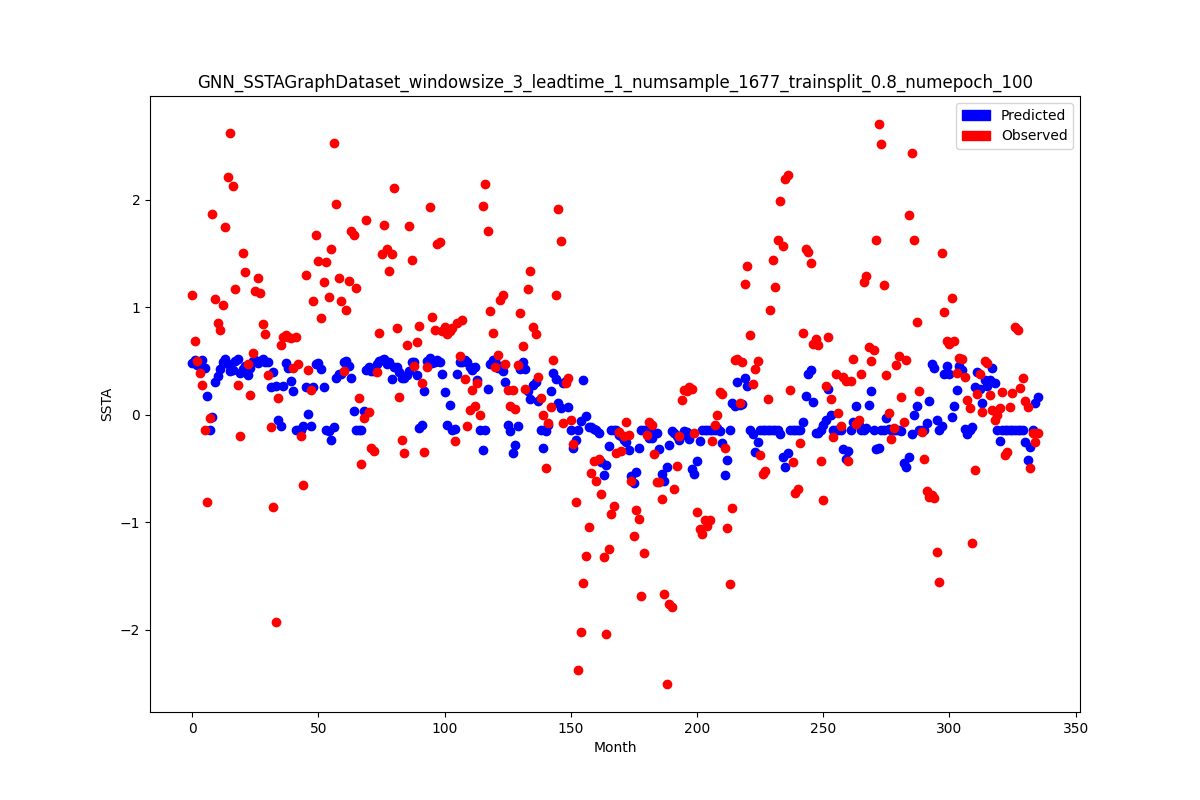
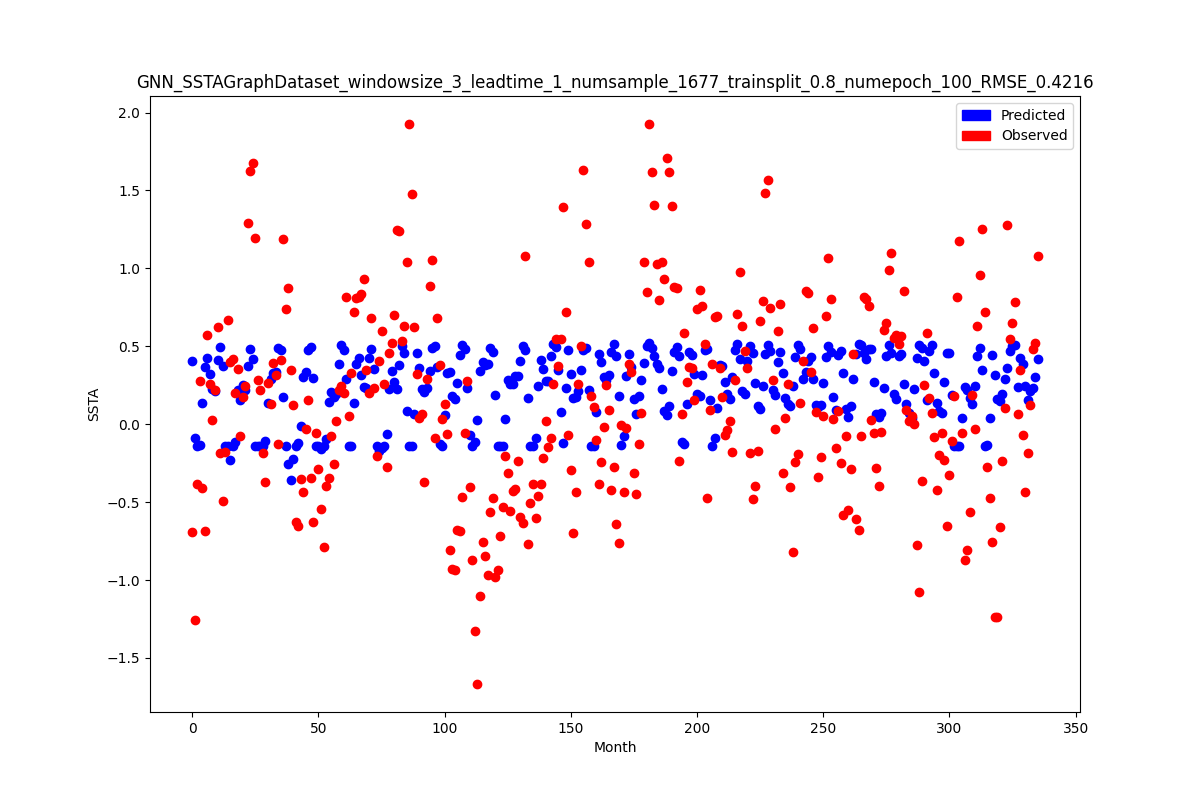
Add files via upload

diff --git a/train.py b/train.py
@@ -35,7 +35,7 @@ momentum = 0.9
 weight_decay = 0.0001
 batch_size = 64
 num_sample = 1677 # max: node_features.shape[1]-window_size-lead_time+1
-num_train_epoch = 100
+num_train_epoch = 99
 
 data_path = 'data/'
 models_path = 'out/'
@@ -135,16 +135,9 @@ print()
 num_examples = len(dataset)
 num_train = int(num_examples * train_split)
 
-# Random sampler
-#train_sampler = SubsetRandomSampler(torch.arange(num_train))
-#test_sampler = SubsetRandomSampler(torch.arange(num_train, num_examples))
-
 # Sequential sampler
-train_sampler = SequentialSampler(torch.arange(num_train))
-test_sampler = SequentialSampler(torch.arange(num_train, num_examples))
-
-train_dataloader = GraphDataLoader(dataset, sampler=train_sampler, batch_size=batch_size, drop_last=False)
-test_dataloader = GraphDataLoader(dataset, sampler=test_sampler, batch_size=1, drop_last=False)
+train_dataloader = GraphDataLoader(dataset, sampler=torch.arange(num_train), batch_size=batch_size, drop_last=False)
+test_dataloader = GraphDataLoader(dataset, sampler=torch.arange(num_train, num_examples), batch_size=1, drop_last=False)
 
 it = iter(train_dataloader)
 batch = next(it)
@@ -194,7 +187,7 @@ class GCN(nn.Module):
 # Train the GCN.
 
 model = GCN(window_size, 200, 1)
-optimizer = torch.optim.SGD(model.parameters(), lr=learning_rate, momentum=momentum, weight_decay=weight_decay)
+optimizer = torch.optim.SGD(model.parameters(), lr=learning_rate) #momentum=momentum, weight_decay=weight_decay
 loss_f = nn.MSELoss()
 
 print("Start training.")
@@ -277,7 +270,7 @@ print()
 fig, ax = plt.subplots(figsize=(12, 8))
 plt.xlabel('Month')
 plt.ylabel('SSTA')
-plt.title('GNN_SSTAGraphDataset_windowsize_' + str(window_size) + '_leadtime_' + str(lead_time) + '_numsample_' + str(num_sample) + '_trainsplit_' + str(train_split) + '_numepoch_' + str(num_train_epoch), fontsize=12)
+plt.title('GNN_SSTAGraphDataset_windowsize_' + str(window_size) + '_leadtime_' + str(lead_time) + '_numsample_' + str(num_sample) + '_trainsplit_' + str(train_split) + '_numepoch_' + str(epoch) + '_RMSE_' + str(round(test_rmse, 4)), fontsize=12)
 blue_patch = mpatches.Patch(color='blue', label='Predicted')
 red_patch = mpatches.Patch(color='red', label='Observed')
 ax.legend(handles=[blue_patch, red_patch])

diff --git a/train_eval_lr.py b/train_eval_lr.py
@@ -24,7 +24,7 @@ x = np.transpose(node_features)
 y = y[lead_time:]
 x = x[:len(x)-lead_time]
 
-x_train, x_test, y_train, y_test = train_test_split(x, y, train_size=train_split)
+x_train, x_test, y_train, y_test = train_test_split(x, y, train_size=train_split, shuffle=False)
 
 # Train a multiple linear regression model.
 
@@ -39,7 +39,7 @@ print()
 pred = reg.predict(x_test)
 
 for i in range(len(pred)):
-  print('Observed:', y[i], '; predicted:', pred[i])
+  print('Observed:', y_test[i], '; predicted:', pred[i])
 
 print("----------")
 print()
@@ -54,14 +54,14 @@ print()
 fig, ax = plt.subplots(figsize=(12, 8))
 plt.xlabel('Month')
 plt.ylabel('SSTA')
-plt.title('LR_SSTAGraphDataset_windowsize_3_leadtime_1_numsample_1677_trainsplit_0.8', fontsize=12)
+plt.title('LR_SSTAGraphDataset_windowsize_3_leadtime_1_numsample_1679_trainsplit_0.8_RMSE_' + str(round(test_rmse, 4)), fontsize=12)
 blue_patch = mpatches.Patch(color='blue', label='Predicted')
 red_patch = mpatches.Patch(color='red', label='Observed')
 ax.legend(handles=[blue_patch, red_patch])
 month = np.arange(0, len(y_test), 1, dtype=int)
 ax.plot(month, pred, 'o', color='blue')
 ax.plot(month, y_test, 'o', color='red')
-plt.savefig(out_path + 'plot_LR_SSTAGraphDataset_windowsize_3_leadtime_1_numsample_1677_trainsplit_0.8.png')
+plt.savefig(out_path + 'plot_LR_SSTAGraphDataset_windowsize_3_leadtime_1_numsample_1679_trainsplit_0.8.png')
 
 print("Save the observed vs. predicted plot.")
 print("--------------------")

diff --git a/eval.py b/eval.py
@@ -129,11 +129,8 @@ dataset = SSTAGraphDataset()
 num_examples = len(dataset)
 num_train = int(num_examples * train_split)
 
-train_sampler = SequentialSampler(torch.arange(num_train))
-test_sampler = SequentialSampler(torch.arange(num_train, num_examples))
-
-train_dataloader = GraphDataLoader(dataset, sampler=train_sampler, batch_size=batch_size, drop_last=False)
-test_dataloader = GraphDataLoader(dataset, sampler=test_sampler, batch_size=1, drop_last=False)
+train_dataloader = GraphDataLoader(dataset, sampler=torch.arange(num_train), batch_size=batch_size, drop_last=False)
+test_dataloader = GraphDataLoader(dataset, sampler=torch.arange(num_train, num_examples), batch_size=1, drop_last=False)
 
 # Test the model.
 
@@ -158,7 +155,7 @@ print()
 fig, ax = plt.subplots(figsize=(12, 8))
 plt.xlabel('Month')
 plt.ylabel('SSTA')
-plt.title('GNN_SSTAGraphDataset_windowsize_' + str(window_size) + '_leadtime_' + str(lead_time) + '_numsample_' + str(num_sample) + '_trainsplit_' + str(train_split) + '_numepoch_' + str(epoch), fontsize=12)
+plt.title('GNN_SSTAGraphDataset_windowsize_' + str(window_size) + '_leadtime_' + str(lead_time) + '_numsample_' + str(num_sample) + '_trainsplit_' + str(train_split) + '_numepoch_' + str(epoch) + '_RMSE_' + str(round(test_rmse, 4)), fontsize=12)
 blue_patch = mpatches.Patch(color='blue', label='Predicted')
 red_patch = mpatches.Patch(color='red', label='Observed')
 ax.legend(handles=[blue_patch, red_patch])

diff --git a/setup.py b/setup.py
@@ -2,7 +2,7 @@ from setuptools import setup, find_packages
 
 setup(
     name='GraphWaves',
-    version='0.1.6',
+    version='0.1.6.1',
     packages=find_packages(),
     url='https://github.com/ding05/GraphWaves',
     license='MIT',
